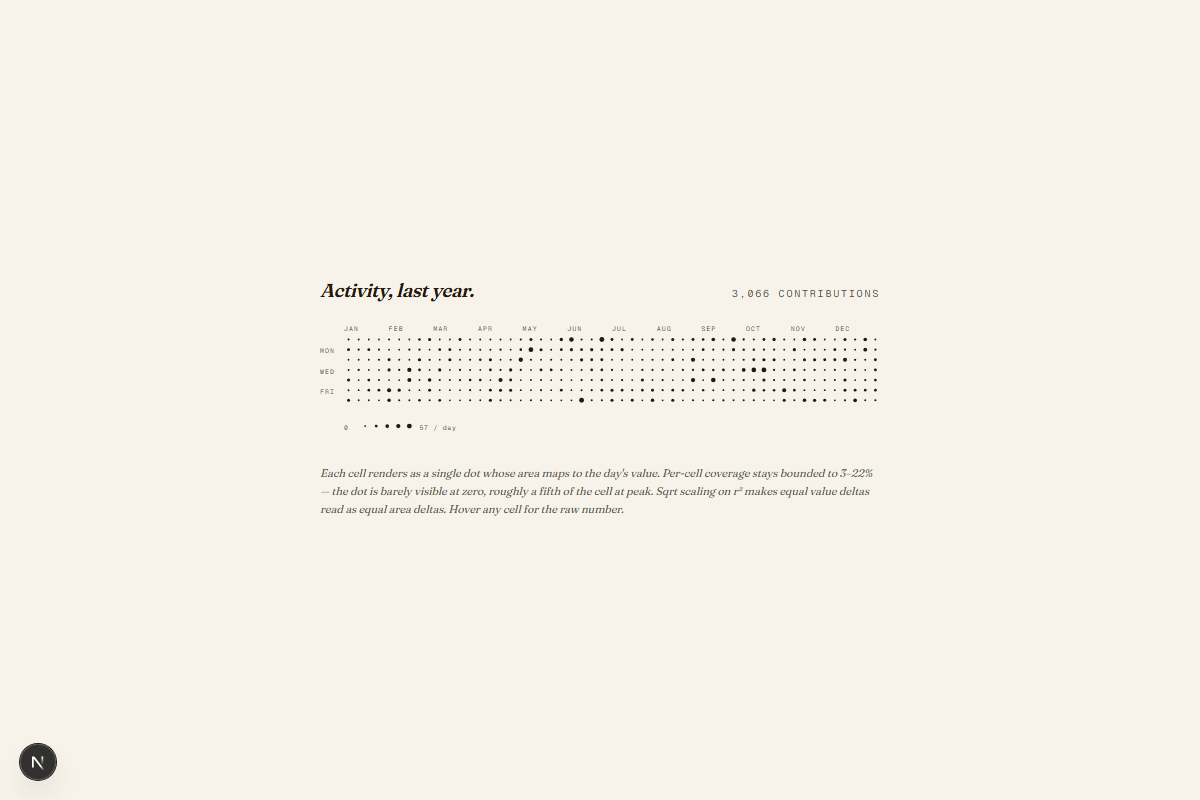
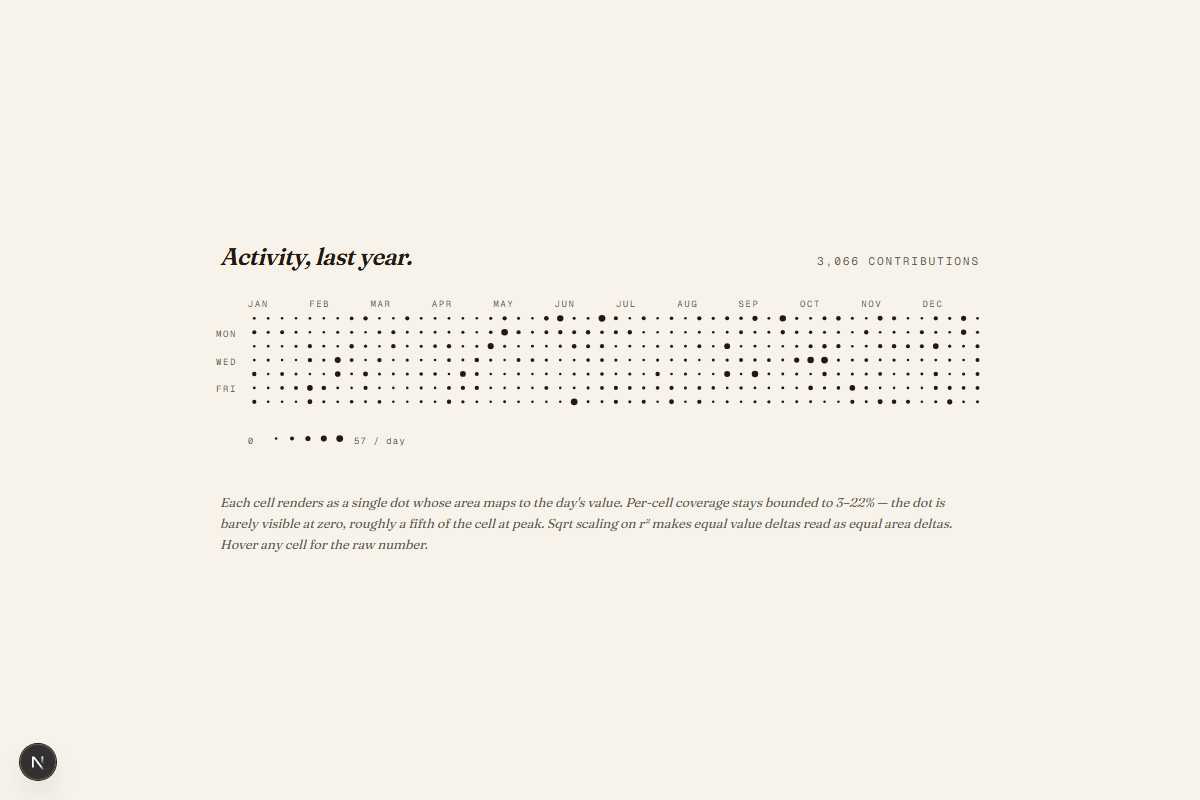
Spike 3 v1 polish: bump sizing + responsive cells
The activity-heatmap was rendering at the default 600px maxWidth (vs
app-shell's 880px), which cascaded into every label, legend datum,
and the new tooltip rendering too small to read on desktop. Vinson
flagged the text and the hover popup as too small to see.

Two coordinated bumps:

- Registry: maxWidth 600 (default) → 880, matching app-shell. The
  4:3 plate is now physically larger on desktop, scaling everything
  inside.
- Inner content: max-w-[560px] → max-w-[760px]. Lets the SVG fill the
  bigger plate.
- SVG internals: CELL 10 → 13, label fontSize 7 → 9, monthLabelHeight
  14 → 18, dayLabelGutter 26 → 32, legend gap/height bumped. Per-cell
  coverage formula is unchanged (radii compute from CELL, so dot sizes
  scale with the cell).
- Tooltip: TIP_W 92 → 140, TIP_H 22 → 34. Date eyebrow fontSize 6 → 8,
  count body 8.5 → 12. Visible at glance now.
- Header h2: 19px → 24px Fraunces. Eyebrow 10px → 11px mono. Footer
  caption 11px → 13px italic Fraunces.

Responsive cell sizing (item #2 of the polish list): the SVG is now
wrapped in `overflow-x-auto` with a `min-width: 680` SVG. On large
desktops it fills the plate; on narrow viewports (mobile, sidebar-
collapsed app shells) it horizontally scrolls instead of squishing
cells below readable size — at min-width=680 each cell still renders
at ~11.4 px on screen.

Changed region(s): [[0.185, 0.3125, 0.8017, 0.5], [0.185, 0.5312, 0.8017, 0.6875], [0.7708, 0.375, 0.8017, 0.4062]]

diff --git a/components/showcase/dashboards/activity-heatmap.tsx b/components/showcase/dashboards/activity-heatmap.tsx
@@ -37,7 +37,7 @@ import { mulberry32 } from "@/components/_kit/dot-noise";
 
 const WEEKS = 53;
 const DAYS = 7;
-const CELL = 10;
+const CELL = 13;
 const GAP = 1;
 const STEP = CELL + GAP;
 
@@ -123,36 +123,42 @@ export default function ActivityHeatmap() {
   const [hovered, setHovered] = useState<Cell | null>(null);
 
   // Layout sizes (SVG user units).
-  const dayLabelGutter = 26;
-  const monthLabelHeight = 14;
+  const dayLabelGutter = 32;
+  const monthLabelHeight = 18;
   const gridWidth = WEEKS * STEP - GAP;
   const gridHeight = DAYS * STEP - GAP;
-  const legendGap = 18;
-  const legendHeight = 22;
+  const legendGap = 24;
+  const legendHeight = 28;
   const totalWidth = dayLabelGutter + gridWidth;
   const totalHeight =
     monthLabelHeight + gridHeight + legendGap + legendHeight;
 
   return (
     <div className="grid h-full w-full place-items-center bg-[var(--color-bg)] px-7 py-8">
-      <div className="w-full max-w-[560px]">
+      <div className="w-full max-w-[760px]">
         {/* Header */}
-        <div className="mb-5 flex items-baseline justify-between">
+        <div className="mb-6 flex items-baseline justify-between">
           <h2
-            className="font-display text-[19px] italic leading-none text-[var(--color-text)]"
-            style={{ fontVariationSettings: '"opsz" 24, "SOFT" 30' }}
+            className="font-display text-[24px] italic leading-none text-[var(--color-text)]"
+            style={{ fontVariationSettings: '"opsz" 36, "SOFT" 30' }}
           >
             Activity, last year.
           </h2>
-          <div className="font-mono text-[10px] uppercase tracking-[0.18em] text-[var(--color-text-muted)]">
+          <div className="font-mono text-[11px] uppercase tracking-[0.18em] text-[var(--color-text-muted)]">
             {total.toLocaleString()} contributions
           </div>
         </div>
 
-        {/* Heatmap SVG. */}
+        {/* Heatmap SVG. Wrapped in a horizontal-scroll container with a
+            min-width so cells stay legibly sized on narrow viewports
+            (mobile, sidebar-collapsed app shells). 53 weeks at any readable
+            cell size means the grid is naturally ~700+ px wide; on smaller
+            viewports the user scrolls instead of squinting at 6-px dots. */}
+        <div className="-mx-1 overflow-x-auto pb-1">
         <svg
           viewBox={`0 0 ${totalWidth} ${totalHeight}`}
           className="block w-full"
+          style={{ minWidth: 680 }}
           role="img"
           aria-label={`Contribution heatmap. ${total} total contributions across ${WEEKS} weeks; peak day ${max}.`}
         >
@@ -166,11 +172,11 @@ export default function ActivityHeatmap() {
                 <text
                   key={m}
                   x={x}
-                  y={monthLabelHeight - 4}
+                  y={monthLabelHeight - 5}
                   className="fill-[var(--color-text-muted)]"
                   style={{
                     fontFamily: "var(--font-mono)",
-                    fontSize: 7,
+                    fontSize: 9,
                     letterSpacing: "0.18em",
                     textTransform: "uppercase",
                   }}
@@ -187,11 +193,11 @@ export default function ActivityHeatmap() {
               <text
                 key={label}
                 x={0}
-                y={index * STEP + STEP - 2}
+                y={index * STEP + STEP - 3}
                 className="fill-[var(--color-text-muted)]"
                 style={{
                   fontFamily: "var(--font-mono)",
-                  fontSize: 7,
+                  fontSize: 9,
                   letterSpacing: "0.18em",
                   textTransform: "uppercase",
                 }}
@@ -256,7 +262,7 @@ export default function ActivityHeatmap() {
               className="fill-[var(--color-text-muted)]"
               style={{
                 fontFamily: "var(--font-mono)",
-                fontSize: 7,
+                fontSize: 9,
                 letterSpacing: "0.12em",
               }}
             >
@@ -267,7 +273,7 @@ export default function ActivityHeatmap() {
               return (
                 <g
                   key={i}
-                  transform={`translate(${18 + i * (CELL + 2)} 0)`}
+                  transform={`translate(${22 + i * (CELL + 3)} 0)`}
                 >
                   <circle
                     cx={CELL / 2}
@@ -279,12 +285,12 @@ export default function ActivityHeatmap() {
               );
             })}
             <text
-              x={18 + 5 * (CELL + 2) + 4}
+              x={22 + 5 * (CELL + 3) + 5}
               y={CELL - 1}
               className="fill-[var(--color-text-muted)]"
               style={{
                 fontFamily: "var(--font-mono)",
-                fontSize: 7,
+                fontSize: 9,
                 letterSpacing: "0.12em",
               }}
             >
@@ -304,11 +310,12 @@ export default function ActivityHeatmap() {
             />
           )}
         </svg>
+        </div>
 
-        {/* Footer caption — small, italic, Fraunces. Closes the dashboard
-            with a typeset note rather than a chart axis. */}
+        {/* Footer caption — italic Fraunces. Closes the dashboard with a
+            typeset note rather than a chart axis. */}
         <p
-          className="mt-6 text-[11px] italic leading-relaxed text-[var(--color-text-muted)]"
+          className="mt-7 text-[13px] italic leading-relaxed text-[var(--color-text-muted)]"
           style={{
             fontFamily: "var(--font-display)",
             fontVariationSettings: '"opsz" 18, "SOFT" 30',
@@ -344,9 +351,9 @@ function CellTooltip({
   totalWidth: number;
   gridHeight: number;
 }) {
-  const TIP_W = 92;
-  const TIP_H = 22;
-  const MARGIN = 4;
+  const TIP_W = 140;
+  const TIP_H = 34;
+  const MARGIN = 6;
 
   const cellCenterX = dayLabelGutter + cell.week * STEP + CELL / 2;
   const cellTop = monthLabelHeight + cell.day * STEP;
@@ -379,17 +386,17 @@ function CellTooltip({
         height={TIP_H}
         fill="var(--color-bg)"
         stroke="var(--color-border-strong)"
-        strokeWidth={0.5}
-        rx={2}
+        strokeWidth={0.7}
+        rx={3}
       />
       <text
         x={TIP_W / 2}
-        y={9}
+        y={13}
         textAnchor="middle"
         style={{
           fontFamily: "var(--font-mono)",
-          fontSize: 6,
-          letterSpacing: "0.16em",
+          fontSize: 8,
+          letterSpacing: "0.18em",
           fill: "var(--color-text-muted)",
         }}
       >
@@ -397,13 +404,13 @@ function CellTooltip({
       </text>
       <text
         x={TIP_W / 2}
-        y={18}
+        y={27}
         textAnchor="middle"
         style={{
           fontFamily: "var(--font-display)",
-          fontSize: 8.5,
+          fontSize: 12,
           fontStyle: "italic",
-          fontVariationSettings: '"opsz" 18, "SOFT" 30',
+          fontVariationSettings: '"opsz" 24, "SOFT" 30',
           fill: "var(--color-text)",
         }}
       >

diff --git a/lib/registry.ts b/lib/registry.ts
@@ -93,6 +93,7 @@ export const REGISTRY: ComponentEntry[] = [
       "Area-as-data: one dot per cell, sized by the day's value. Sqrt-scaled radius keeps equal value deltas perceptually uniform.",
     layout: "specimen",
     aspectRatio: "4 / 3",
+    maxWidth: 880,
     load: () => import("@/components/showcase/dashboards/activity-heatmap"),
   },
   {
